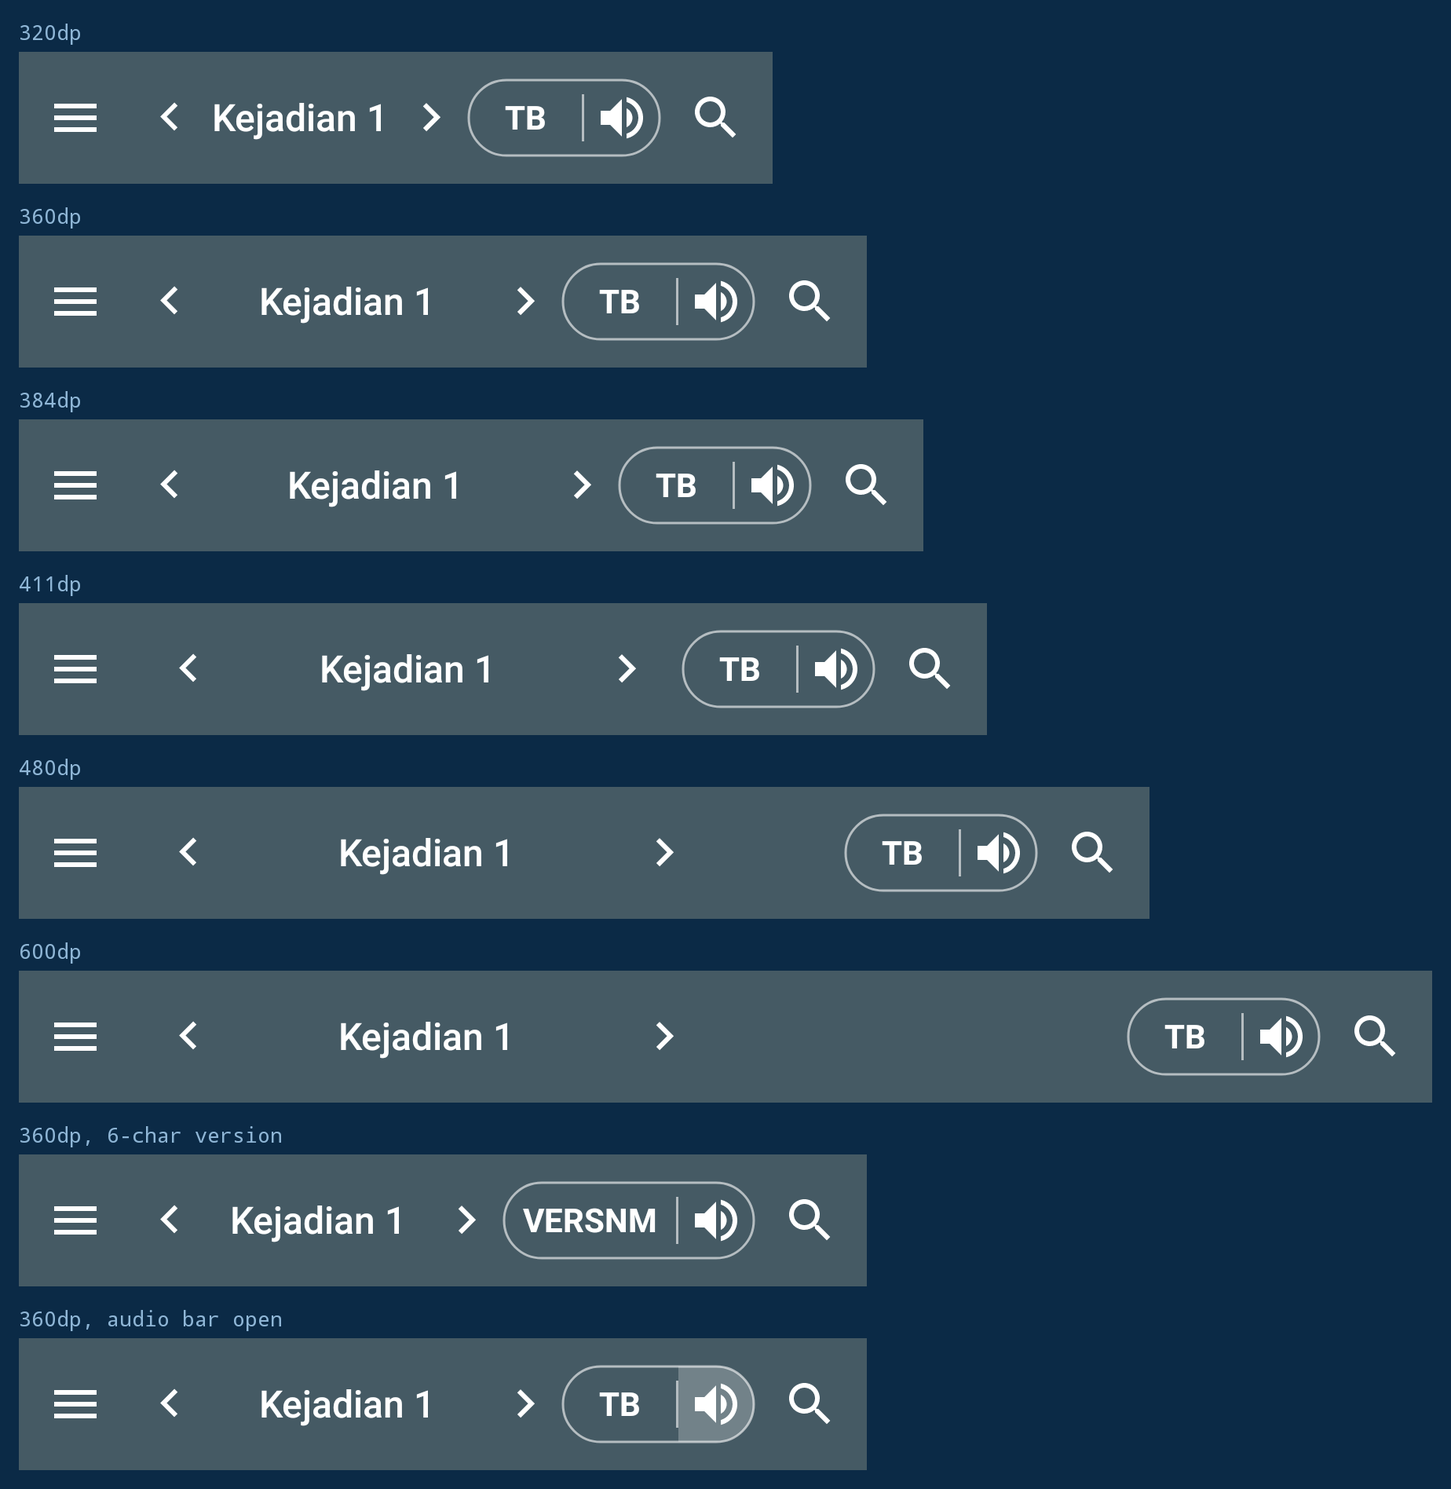
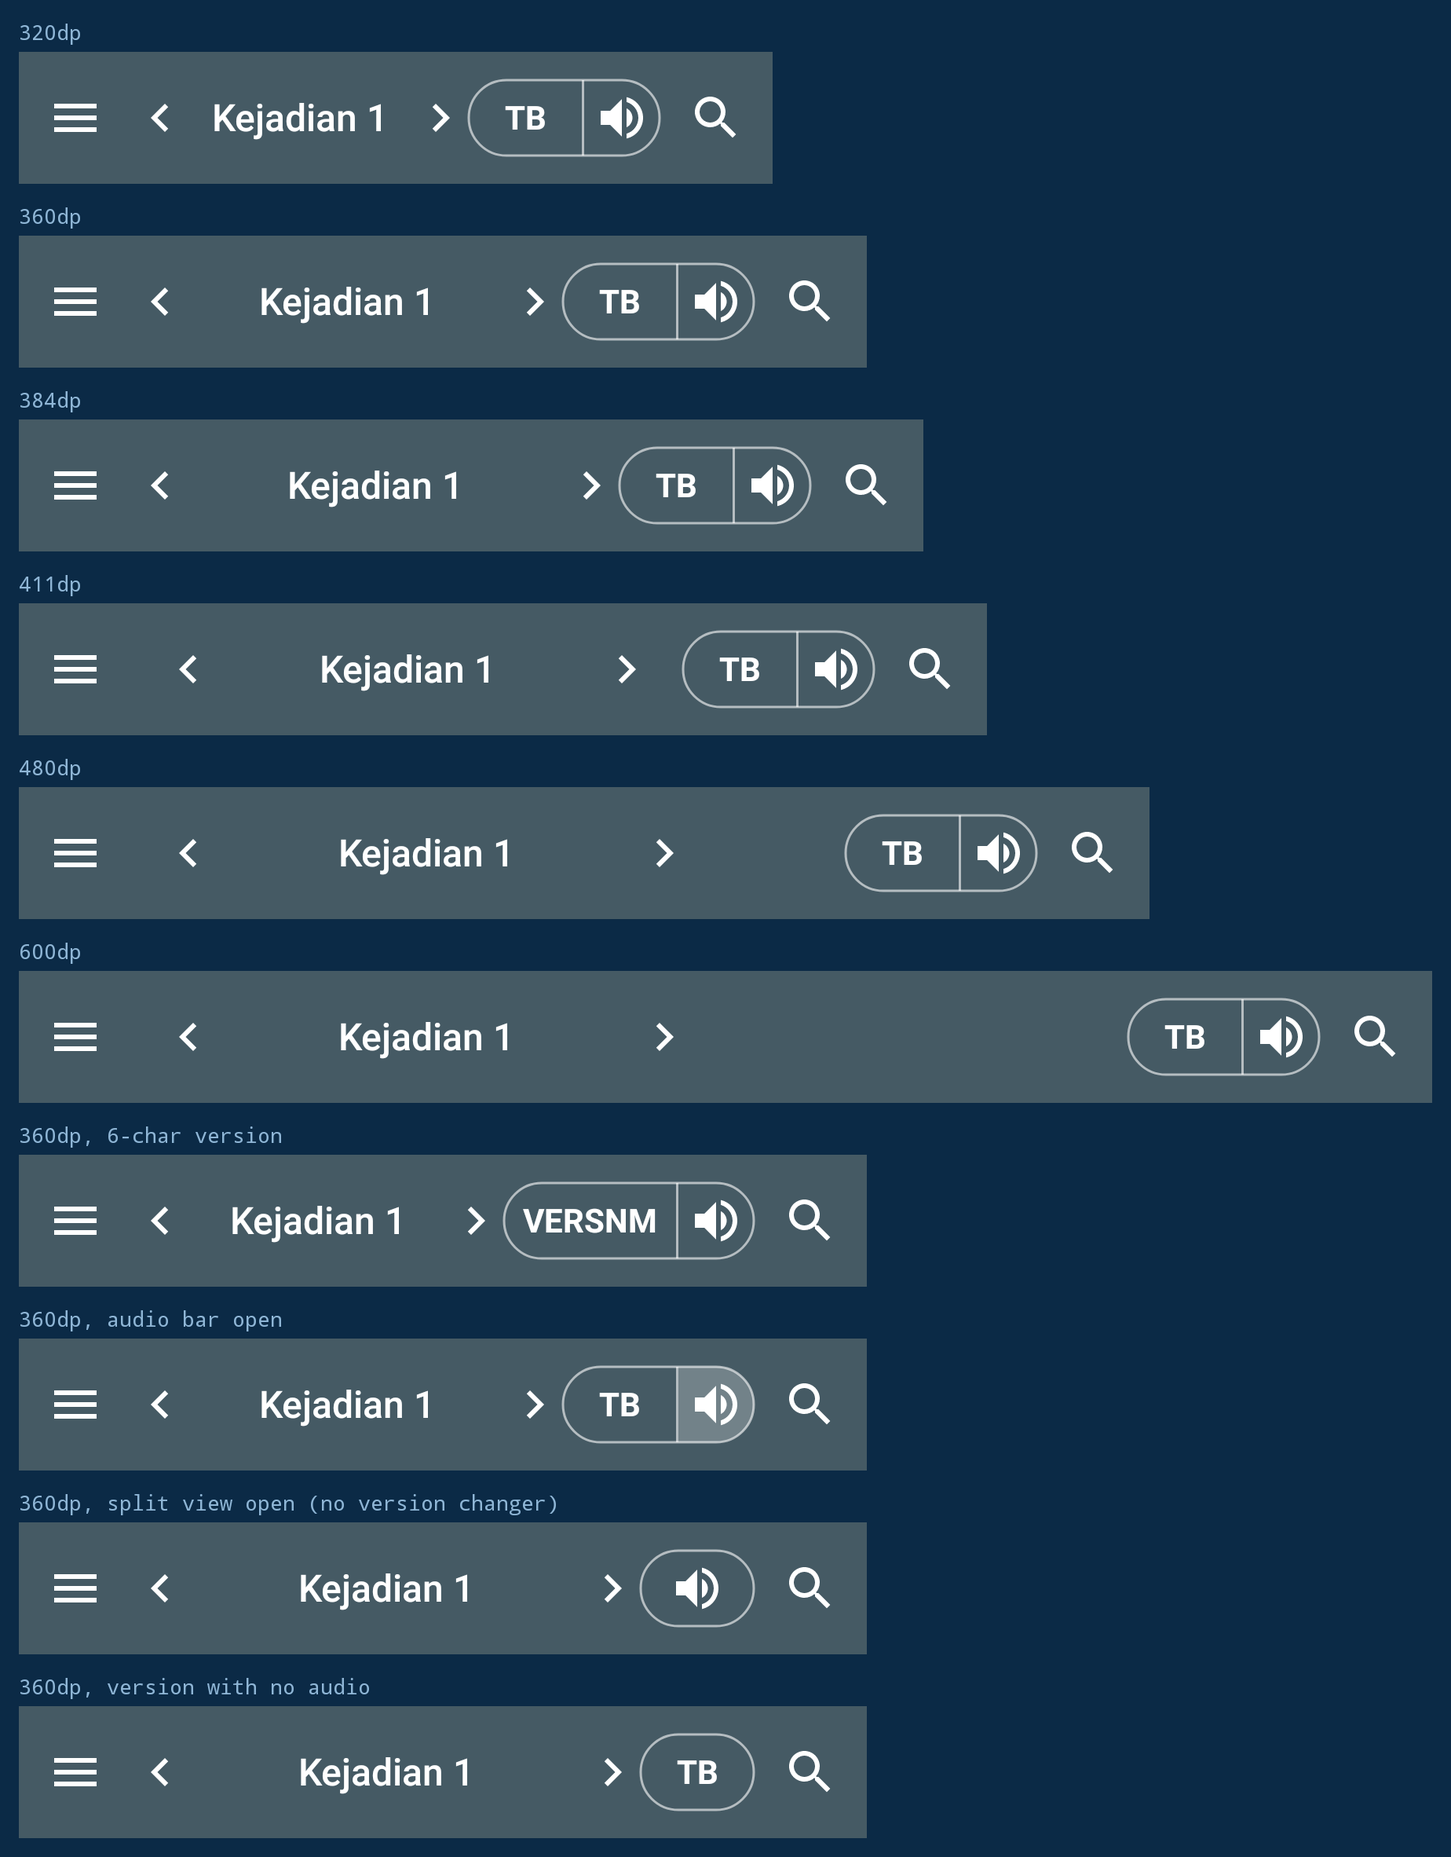
Material chevrons, a flush segment divider, and a lone speaker capsule
The chapter arrows are now ic_chevron_start_24 and ic_chevron_end_24,
Material chevrons drawn as 24dp autoMirrored vectors. The bitmap assets
they replace sat behind an autoMirrored <bitmap> wrapper the Compose
painter loader cannot read, which needed a manual right-to-left swap and
a 32dp draw size; both are gone. With every chevron now a 24dp glyph the
narrow resource bucket no longer needs an exception, so the flush rule is
simply "below 411dp".

The hairline between the version changer and the speaker runs the full
height of the stadium instead of floating inside it.

Either half of the segmented control can now be absent. The split view
hides the version changer, and a version with no recording has no audio
button; whichever half is left keeps the stadium to itself, and the
speaker grows to the full 48dp once it no longer sits inside a target the
reader is already aiming at. Before this the split view took the speaker
away with the version changer.

ReaderToolbarComposeTest covers the lone capsule, the empty case, and
reads the rendered bar to check the chevrons are flush only below 411dp.

Claude-Session: https://claude.ai/code/session_01RUfH7LzvCqvACceArY1uSh

diff --git a/Alkitab/src/main/java/yuku/alkitab/base/compose/toolbar/ReaderToolbar.kt b/Alkitab/src/main/java/yuku/alkitab/base/compose/toolbar/ReaderToolbar.kt
@@ -42,7 +42,6 @@ import androidx.compose.ui.layout.Layout
 import androidx.compose.ui.layout.boundsInWindow
 import androidx.compose.ui.layout.onGloballyPositioned
 import androidx.compose.ui.platform.LocalDensity
-import androidx.compose.ui.platform.LocalLayoutDirection
 import androidx.compose.ui.res.dimensionResource
 import androidx.compose.ui.res.painterResource
 import androidx.compose.ui.res.stringResource
@@ -54,7 +53,6 @@ import androidx.compose.ui.text.style.TextAlign
 import androidx.compose.ui.text.style.TextOverflow
 import androidx.compose.ui.unit.Constraints
 import androidx.compose.ui.unit.Dp
-import androidx.compose.ui.unit.LayoutDirection
 import androidx.compose.ui.unit.dp
 import androidx.compose.ui.unit.sp
 import yuku.alkitab.base.widget.GotoButton
@@ -64,9 +62,6 @@ object ReaderToolbarDimens {
     val drawerWidth = 48.dp
     val searchWidth = 48.dp
     val iconSize = 24.dp
-
-    /** The chapter chevron artwork's own size. Drawing it smaller thins the glyph. */
-    val chevronSize = 32.dp
 
     /** Matches the max width [yuku.alkitab.base.widget.NavFrameLayout] applies. */
     val clusterMaxWidth = 250.dp
@@ -141,10 +136,7 @@ fun ReaderToolbar(
     // The host frame already paints the bar colour, including the night-mode
     // override the action bar applies, so nothing is drawn here.
     BoxWithConstraints(modifier.fillMaxSize()) {
-        // In the narrow bucket the arrow box is no wider than the chevron
-        // artwork, so there is nothing to shift, and the reference margin
-        // there is already the flush one.
-        val flush = arrowWidth >= 48.dp && maxWidth < ReaderToolbarDimens.flushBelowWidth
+        val flush = maxWidth < ReaderToolbarDimens.flushBelowWidth
         val margin = if (flush) ReaderToolbarDimens.flushMargin else bucketMargin
 
         Layout(
@@ -163,19 +155,12 @@ fun ReaderToolbar(
                     contentColor = contentColor,
                     actions = actions,
                 )
-                if (state.versionVisible) {
-                    VersionSegment(
-                        initials = state.versionInitials,
-                        audioAvailable = state.audioAvailable,
-                        audioBarVisible = state.audioBarVisible,
-                        contentColor = contentColor,
-                        onVersionClick = actions::onVersionClick,
-                        onAudioClick = actions::onAudioClick,
-                    )
-                } else {
-                    // Keeps the slot count fixed for the measure pass below.
-                    Box(Modifier)
-                }
+                VersionAudioControl(
+                    state = state,
+                    contentColor = contentColor,
+                    onVersionClick = actions::onVersionClick,
+                    onAudioClick = actions::onAudioClick,
+                )
                 BarIconButton(
                     painter = R.drawable.ic_search_24,
                     contentDescription = stringResource(R.string.search),
@@ -224,7 +209,6 @@ private fun BarIconButton(
     onClick: () -> Unit,
     modifier: Modifier = Modifier,
     contentAlignment: Alignment = Alignment.Center,
-    iconSize: Dp = ReaderToolbarDimens.iconSize,
 ) {
     Box(
         modifier
@@ -239,7 +223,7 @@ private fun BarIconButton(
         Icon(
             painter = painterResource(painter),
             contentDescription = contentDescription,
-            modifier = Modifier.size(iconSize),
+            modifier = Modifier.size(ReaderToolbarDimens.iconSize),
             tint = contentColor,
         )
     }
@@ -255,10 +239,6 @@ private fun NavCluster(
     actions: ReaderToolbarActions,
     modifier: Modifier = Modifier,
 ) {
-    // The chevron artwork ships as two mirrored bitmaps behind an autoMirrored
-    // wrapper the Compose painter loader cannot read, so the swap is done here.
-    val rtl = LocalLayoutDirection.current == LayoutDirection.Rtl
-
     Box(modifier.fillMaxSize()) {
         ReferenceTarget(
             arrowWidth = arrowWidth,
@@ -272,22 +252,20 @@ private fun NavCluster(
             modifier = Modifier.align(Alignment.Center),
         )
         BarIconButton(
-            painter = if (rtl) R.drawable.ic_nav_right_light else R.drawable.ic_nav_left_light,
+            painter = R.drawable.ic_chevron_start_24,
             contentDescription = stringResource(R.string.desc_previous_chapter),
             contentColor = contentColor,
             onClick = actions::onPreviousChapter,
             modifier = Modifier.align(Alignment.CenterStart).width(arrowWidth),
             contentAlignment = if (flush) Alignment.CenterStart else Alignment.Center,
-            iconSize = ReaderToolbarDimens.chevronSize,
         )
         BarIconButton(
-            painter = if (rtl) R.drawable.ic_nav_left_light else R.drawable.ic_nav_right_light,
+            painter = R.drawable.ic_chevron_end_24,
             contentDescription = stringResource(R.string.desc_next_chapter),
             contentColor = contentColor,
             onClick = actions::onNextChapter,
             modifier = Modifier.align(Alignment.CenterEnd).width(arrowWidth),
             contentAlignment = if (flush) Alignment.CenterEnd else Alignment.Center,
-            iconSize = ReaderToolbarDimens.chevronSize,
         )
     }
 }
@@ -387,18 +365,32 @@ private fun ReferenceLabel(
     }
 }
 
+/**
+ * One stadium holding the version changer and the audio button, because audio
+ * availability follows from which version is being read.
+ *
+ * Either half can be absent: the split view hides the version changer, and a
+ * version without a recording has no audio button. Whichever half is left
+ * keeps the stadium to itself, and the speaker takes the full 48dp minimum
+ * once it no longer sits inside a target the reader is already aiming at.
+ */
 @Composable
-private fun VersionSegment(
-    initials: String,
-    audioAvailable: Boolean,
-    audioBarVisible: Boolean,
+private fun VersionAudioControl(
+    state: ReaderToolbarState,
     contentColor: Color,
     onVersionClick: () -> Unit,
     onAudioClick: () -> Unit,
     modifier: Modifier = Modifier,
 ) {
+    val showVersion = state.versionVisible
+    val showAudio = state.audioAvailable
+    if (!showVersion && !showAudio) {
+        Box(modifier)
+        return
+    }
+
     val outline = contentColor.copy(alpha = 0.6f)
-    val label = versionLabelFor(initials)
+    val label = versionLabelFor(state.versionInitials)
     val labelStyle = TextStyle(
         color = contentColor,
         fontSize = ReaderToolbarDimens.versionTextSize,
@@ -408,11 +400,8 @@ private fun VersionSegment(
     val labelWidth = with(LocalDensity.current) {
         measurer.measure(label, labelStyle).size.width.toDp()
     }
-    val versionWidth = maxOf(
-        ReaderToolbarDimens.chipMinWidth,
-        labelWidth + ReaderToolbarDimens.chipSidePadding * 2,
-    )
     val chipHeight = ReaderToolbarDimens.chipHeight
+    val split = showVersion && showAudio
 
     Row(
         modifier
@@ -429,27 +418,39 @@ private fun VersionSegment(
             },
         verticalAlignment = Alignment.CenterVertically,
     ) {
-        SegmentHalf(
-            width = versionWidth,
-            shape = if (audioAvailable) {
-                RoundedCornerShape(topStartPercent = 50, bottomStartPercent = 50)
-            } else {
-                RoundedCornerShape(percent = 50)
-            },
-            contentColor = contentColor,
-            onClick = onVersionClick,
-        ) {
-            Text(text = label, style = labelStyle, maxLines = 1)
+        if (showVersion) {
+            SegmentHalf(
+                width = maxOf(
+                    ReaderToolbarDimens.chipMinWidth,
+                    labelWidth + ReaderToolbarDimens.chipSidePadding * 2,
+                ),
+                shape = if (split) {
+                    RoundedCornerShape(topStartPercent = 50, bottomStartPercent = 50)
+                } else {
+                    RoundedCornerShape(percent = 50)
+                },
+                contentColor = contentColor,
+                onClick = onVersionClick,
+            ) {
+                Text(text = label, style = labelStyle, maxLines = 1)
+            }
         }
 
-        if (audioAvailable) {
-            Box(Modifier.width(1.dp).height(20.dp).background(outline))
+        if (split) {
+            Box(Modifier.width(1.dp).height(chipHeight).background(outline))
+        }
+
+        if (showAudio) {
             SegmentHalf(
-                width = ReaderToolbarDimens.speakerWidth,
-                shape = RoundedCornerShape(topEndPercent = 50, bottomEndPercent = 50),
+                width = if (split) ReaderToolbarDimens.speakerWidth else ReaderToolbarDimens.chipMinWidth,
+                shape = if (split) {
+                    RoundedCornerShape(topEndPercent = 50, bottomEndPercent = 50)
+                } else {
+                    RoundedCornerShape(percent = 50)
+                },
                 contentColor = contentColor,
                 onClick = onAudioClick,
-                background = if (audioBarVisible) contentColor.copy(alpha = 0.24f) else Color.Transparent,
+                background = if (state.audioBarVisible) contentColor.copy(alpha = 0.24f) else Color.Transparent,
             ) {
                 Icon(
                     painter = painterResource(R.drawable.ic_audio),

diff --git a/Alkitab/src/test/java/yuku/alkitab/base/compose/toolbar/ReaderToolbarComposeTest.kt b/Alkitab/src/test/java/yuku/alkitab/base/compose/toolbar/ReaderToolbarComposeTest.kt
@@ -129,6 +129,20 @@ class ReaderToolbarComposeTest {
 
     private val shippingWidths = listOf(320, 360, 384, 411, 480, 600)
 
+    /** Leftmost column inside [box] that the bar painted something on. */
+    private fun firstInkColumn(bitmap: Bitmap, box: Rect): Int {
+        val background = bitmap.getPixel(box.left, box.top)
+        for (x in box.left until box.right) {
+            for (y in box.top until box.bottom) {
+                if (bitmap.getPixel(x, y) != background) return x
+            }
+        }
+        throw AssertionError("no chevron drawn in $box")
+    }
+
+    /** Transparent margin the chevron path leaves inside its own 24dp glyph box. */
+    private val chevronInkInsetDp = 8f / 24f * ReaderToolbarDimens.iconSize.value
+
     private fun stateFor(initials: String = "TB", audio: Boolean = true, audioOn: Boolean = false) =
         ReaderToolbarState(
             reference = "Kejadian 1",
@@ -141,6 +155,9 @@ class ReaderToolbarComposeTest {
     /** 2 characters: a 48dp version half, a 1dp hairline, a 32dp speaker. */
     private val shortSegmentDp =
         ReaderToolbarDimens.chipMinWidth.value + 1f + ReaderToolbarDimens.speakerWidth.value
+
+    /** Either half on its own keeps the stadium and takes the 48dp minimum. */
+    private val loneSegmentDp = ReaderToolbarDimens.chipMinWidth.value
 
     private fun clusterWidthDp(widthDp: Int, segmentDp: Float) = minOf(
         widthDp - ReaderToolbarDimens.drawerWidth.value - ReaderToolbarDimens.searchWidth.value - segmentDp,
@@ -190,11 +207,22 @@ class ReaderToolbarComposeTest {
     }
 
     @Test
-    fun `hiding the version changer hands its width to the reference, up to the cluster cap`() {
+    fun `hiding the version changer leaves the speaker a capsule of its own`() {
         for (widthDp in listOf(320, 360, 411)) {
             val withVersion = layOut(widthDp, stateFor())
             val withoutVersion = layOut(widthDp, stateFor().copy(versionVisible = false))
             val gainedDp = dp(withoutVersion.referenceTouch.width() - withVersion.referenceTouch.width())
+            val expected = clusterWidthDp(widthDp, loneSegmentDp) - clusterWidthDp(widthDp, shortSegmentDp)
+            assertEquals("width handed back at ${widthDp}dp", expected, gainedDp, 0.7f)
+        }
+    }
+
+    @Test
+    fun `hiding both the version changer and the speaker leaves nothing behind`() {
+        for (widthDp in listOf(320, 360, 411)) {
+            val withBoth = layOut(widthDp, stateFor())
+            val withNeither = layOut(widthDp, stateFor(audio = false).copy(versionVisible = false))
+            val gainedDp = dp(withNeither.referenceTouch.width() - withBoth.referenceTouch.width())
             val expected = clusterWidthDp(widthDp, 0f) - clusterWidthDp(widthDp, shortSegmentDp)
             assertEquals("width handed back at ${widthDp}dp", expected, gainedDp, 0.7f)
         }
@@ -206,6 +234,26 @@ class ReaderToolbarComposeTest {
         val withoutAudio = layOut(320, stateFor(audio = false))
         val gainedDp = dp(withoutAudio.referenceTouch.width() - withAudio.referenceTouch.width())
         assertEquals(1f + ReaderToolbarDimens.speakerWidth.value, gainedDp, 0.7f)
+    }
+
+    @Test
+    fun `the chapter chevrons sit flush outward only below 411dp`() {
+        for (widthDp in shippingWidths) {
+            val laid = layOut(widthDp, stateFor())
+            val arrowPx = px(laid.arrowDp)
+            val box = Rect(
+                laid.referenceTouch.left - arrowPx,
+                laid.referenceTouch.top,
+                laid.referenceTouch.left,
+                laid.referenceTouch.bottom,
+            )
+            val inkStart = dp(firstInkColumn(laid.bitmap, box) - box.left)
+            val glyphMargin = (laid.arrowDp - ReaderToolbarDimens.iconSize.value) / 2f
+            val expected = if (widthDp < ReaderToolbarDimens.flushBelowWidth.value) 0f else glyphMargin
+            // The chevron's own artwork is inset inside its 24dp glyph box, so
+            // only the difference between the two placements is asserted.
+            assertEquals("chevron inset at ${widthDp}dp", expected, inkStart - chevronInkInsetDp, 0.4f)
+        }
     }
 
     @Test
@@ -231,8 +279,14 @@ class ReaderToolbarComposeTest {
     fun `render the compose toolbar at every shipping width`() {
         val laids = shippingWidths.map { layOut(it, stateFor()) } +
             layOut(360, stateFor("VERSNM")) +
-            layOut(360, stateFor(audioOn = true))
-        val labels = shippingWidths.map { "${it}dp" } + "360dp, 6-char version" + "360dp, audio bar open"
+            layOut(360, stateFor(audioOn = true)) +
+            layOut(360, stateFor().copy(versionVisible = false)) +
+            layOut(360, stateFor(audio = false))
+        val labels = shippingWidths.map { "${it}dp" } +
+            "360dp, 6-char version" +
+            "360dp, audio bar open" +
+            "360dp, split view open (no version changer)" +
+            "360dp, version with no audio"
 
         val gutter = px(8)
         val labelHeight = px(14)

diff --git a/docs/features/toolbar/compose-implementation.md b/docs/features/toolbar/compose-implementation.md
@@ -8,7 +8,7 @@ feature of the view toolbar and applies the space savings measured in
 Turn it on under Settings, Experimental, "Reader toolbar (Compose)", then
 reopen the reading screen.
 
-![The Compose reader toolbar rendered at 320, 360, 384, 411, 480 and 600 dp, plus a six-character version name and the audio bar open](compose-toolbar.png)
+![The Compose reader toolbar rendered at 320, 360, 384, 411, 480 and 600 dp, plus a six-character version name, the audio bar open, the split view open, and a version with no audio](compose-toolbar.png)
 
 ## Where the code is
 
@@ -72,24 +72,33 @@ The view toolbar's search item is 56 dp because `ic_menu_search.png` is a
 32 dp asset and an action item is sized `max(48dp, icon width + 24dp)`. The
 Compose bar uses a 24 dp vector (`ic_search_24.xml`), so 48 dp is enough.
 
+### Material chevrons
+
+The chapter arrows are `ic_chevron_start_24` and `ic_chevron_end_24`, Material
+chevrons drawn as 24 dp vectors with `autoMirrored` on, so right-to-left
+layouts flip them without a second pair of assets.
+
 ### Chevrons flush outward below 411 dp
 
 Below 411 dp the chapter arrows draw against the outer edge of their own box
 and the reference's side margin drops to 24 dp, which hands the reference the
 space the centred arrows were padding. At 411 dp and above the arrows stay
-centred, because the bar already has room.
-
-The narrow resource bucket (under sw360dp) keeps 32 dp arrows, which leaves
-too little room to hold a 24 dp glyph flush, so it keeps them centred too.
-`ReaderToolbar` decides this from the measured bar width and the
-`nav_prevnext_width` dimension, not from a hard-coded breakpoint list.
+centred, because the bar already has room. `ReaderToolbar` decides this from
+the measured bar width, not from a hard-coded breakpoint list.
 
 ### Version changer and speaker as one segmented stadium
 
 The version changer and the audio button share a single stadium outline split
-by a hairline. The version half is `max(48dp, text width + 16dp)`; an
-abbreviation longer than 6 characters is cut to 5 plus an ellipsis, so a long
-name cannot push the reference around. The speaker half is 32 dp.
+by a hairline that runs the full height of the stadium. The version half is
+`max(48dp, text width + 16dp)`; an abbreviation longer than 6 characters is
+cut to 5 plus an ellipsis, so a long name cannot push the reference around.
+The speaker half is 32 dp.
+
+Either half can be absent. The split view hides the version changer, and a
+version with no recording has no audio button. Whichever half is left keeps
+the stadium to itself, and the speaker grows to the full 48 dp once it is no
+longer sitting inside a target the reader is already aiming at. With both
+gone the control takes no width at all.
 
 32 dp is below the 48 dp minimum touch target, and that is deliberate. The
 speaker is a secondary, non-destructive control sitting inside a stadium the
@@ -133,12 +142,6 @@ false over the outer `nav_prevnext_width - nav_goto_side_margin` on each side
 so the arrows keep a full target under the overlapping reference. In Compose
 the arrows are separate siblings drawn after the reference target, so they
 take their own touches and no such carve-out is needed.
-
-**Chevron artwork.** `ic_nav_start_light` and `ic_nav_end_light` are
-`<bitmap>` wrappers that turn `autoMirrored` on, which the Compose painter
-loader cannot read. `NavCluster` loads the two underlying bitmaps and swaps
-them by layout direction instead, and draws them at their natural 32 dp so
-the chevrons look exactly as they do today.
 
 ## Measuring it
 
